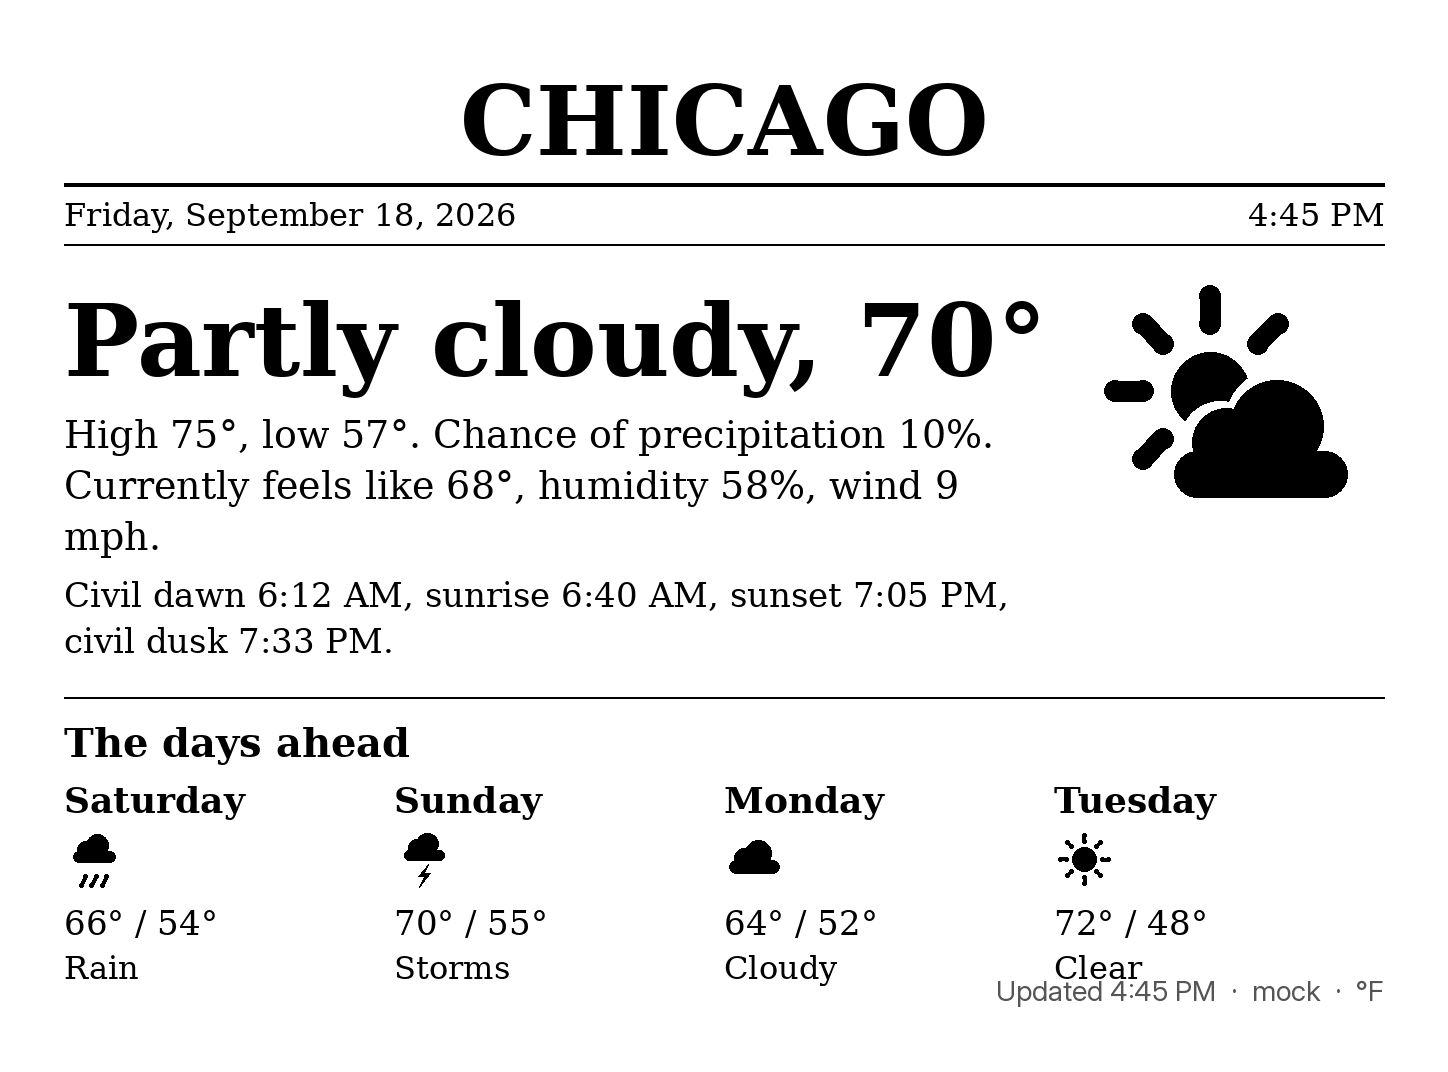
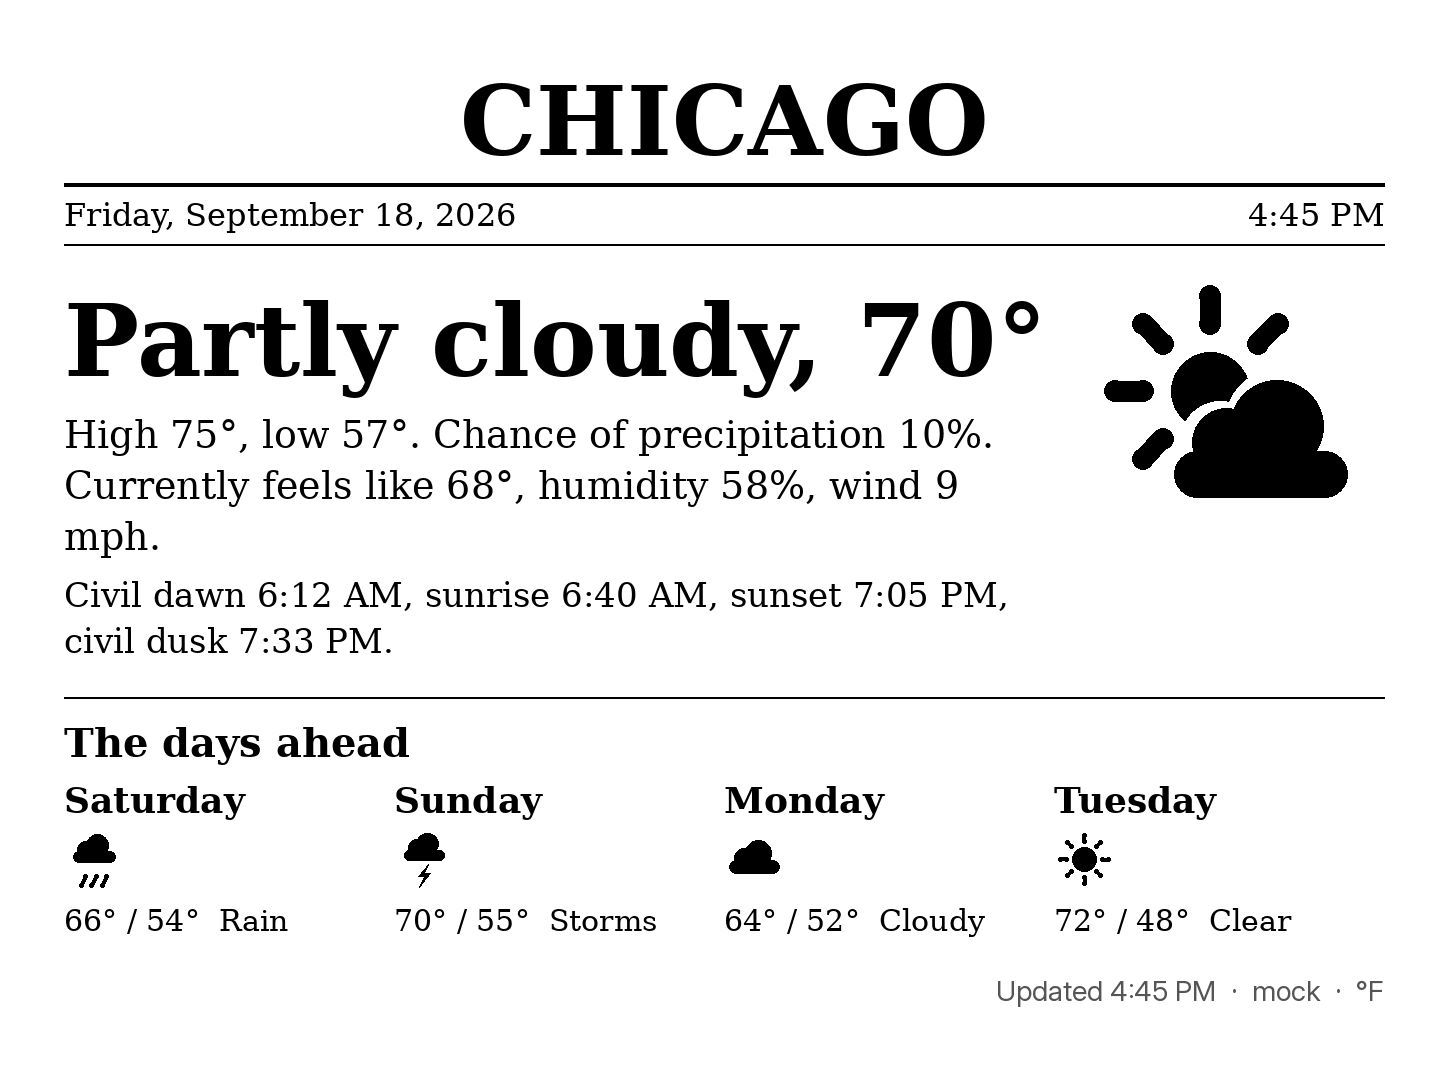
fix(skins): newspaper day columns keep one line when short; footer-clearance test (review round 1)
In landscape the space under the days-ahead icons is too short for two
text lines, so range and condition share one line there as before; the
two-line layout stays in portrait. A test over every skin and orientation
asserts a white strip above the footer. README roadmap paragraph updated.

diff --git a/src/paperwhite_weather/skins/newspaper.py b/src/paperwhite_weather/skins/newspaper.py
@@ -91,7 +91,11 @@ class NewspaperSkin:
         days = snapshot.daily[1 : _FORECAST_DAYS + 1]
         if days:
             available = c.height - m - c.px(50) - y  # leave room for the footer
-            small = max(c.px(60), min(c.px(230), available - c.px(130)))
+            # Two text lines under the icon need about 160 design px; when the space
+            # left is short (landscape), range and condition share one line instead.
+            two_lines = available >= c.px(60) + c.px(50) + c.px(160)
+            reserved = c.px(50) + (c.px(160) if two_lines else c.px(70))
+            small = max(c.px(60), min(c.px(230), available - reserved))
             column = w / len(days)
             for k, day in enumerate(days):
                 x = m + column * k
@@ -100,22 +104,32 @@ class NewspaperSkin:
                 )
                 c.icon(day.condition, (x, y + c.px(50), x + small, y + c.px(50) + small))
                 line_y = y + c.px(50) + small + c.px(14)
-                c.text(
-                    (x, line_y),
-                    c.range_text(day),
-                    "serif",
-                    34,
-                    anchor="la",
-                    max_width=column * 0.95,
-                )
-                c.text(
-                    (x, line_y + c.px(46)),
-                    c.condition_label(day.condition),
-                    "serif",
-                    32,
-                    anchor="la",
-                    max_width=column * 0.95,
-                )
+                if two_lines:
+                    c.text(
+                        (x, line_y),
+                        c.range_text(day),
+                        "serif",
+                        34,
+                        anchor="la",
+                        max_width=column * 0.95,
+                    )
+                    c.text(
+                        (x, line_y + c.px(46)),
+                        c.condition_label(day.condition),
+                        "serif",
+                        32,
+                        anchor="la",
+                        max_width=column * 0.95,
+                    )
+                else:
+                    c.text(
+                        (x, line_y),
+                        f"{c.range_text(day)}  {c.condition_label(day.condition)}",
+                        "serif",
+                        30,
+                        anchor="la",
+                        max_width=column * 0.95,
+                    )
         c.footer()
         return c.image
 

diff --git a/tests/test_render.py b/tests/test_render.py
@@ -5,7 +5,7 @@ from datetime import datetime, timezone
 import pytest
 from PIL import Image, ImageDraw
 
-from paperwhite_weather.config import Settings
+from paperwhite_weather.config import Orientation, Settings
 from paperwhite_weather.models import WeatherSnapshot
 from paperwhite_weather.render import EINK_GRAY_LEVELS, quantize_grayscale, render_dashboard
 from paperwhite_weather.skins import available_skins, get_skin
@@ -225,3 +225,23 @@ def test_minimal_skin_handles_a_single_day_forecast(
             only_today, settings.model_copy(update={"display": display}), FIXED_NOW, size
         )
         assert image.size == size
+
+
+@pytest.mark.behaviour
+@pytest.mark.parametrize("skin", available_skins())
+@pytest.mark.parametrize("orientation", ["landscape", "portrait"])
+def test_nothing_runs_into_the_footer(
+    snapshot: WeatherSnapshot, settings: Settings, skin: str, orientation: Orientation
+) -> None:
+    """A white strip separates the footer line from whatever a skin draws above it."""
+    display = settings.display.model_copy(update={"skin": skin, "orientation": orientation})
+    width, height = display.canvas_size
+    image = get_skin(skin).compose(
+        snapshot, settings.model_copy(update={"display": display}), FIXED_NOW, (width, height)
+    )
+    margin = round(0.06 * min(width, height))
+    design = (1448, 1072) if orientation == "landscape" else (1072, 1448)
+    scale = min(width / design[0], height / design[1])
+    footer_top = height - margin - round(28 * scale) - 6  # the footer is 28 design px tall
+    strip = image.crop((width // 2, footer_top - 8, width - margin, footer_top))
+    assert strip.getextrema() == (255, 255), f"{skin} {orientation} runs into the footer"

diff --git a/README.md b/README.md
@@ -175,8 +175,9 @@ The skins are in their second pass (September 2026), with the direction **fewer 
 more pictures**: Inter and Oswald typefaces, redrawn icons with night variants, the sun
 arc, temperature bars on a shared track, and the `graphic` skin's band chart are in;
 `minimal` is the quiet end of the range and `timeline` draws the day hour by hour from
-the hourly forecast. Still to come: layout passes over `weather-station`, `big-clock`,
-and `newspaper` (which stays text-first on purpose). The
+the hourly forecast; `weather-station`, `big-clock`, and `newspaper` (which stays
+text-first on purpose) had their layout pass last. Next is the maintainer's review of
+all seven on the panel. The
 full plan, with what is done and what is open, is in [`docs/ROADMAP.md`](docs/ROADMAP.md);
 ideas are welcome as issues.
 
